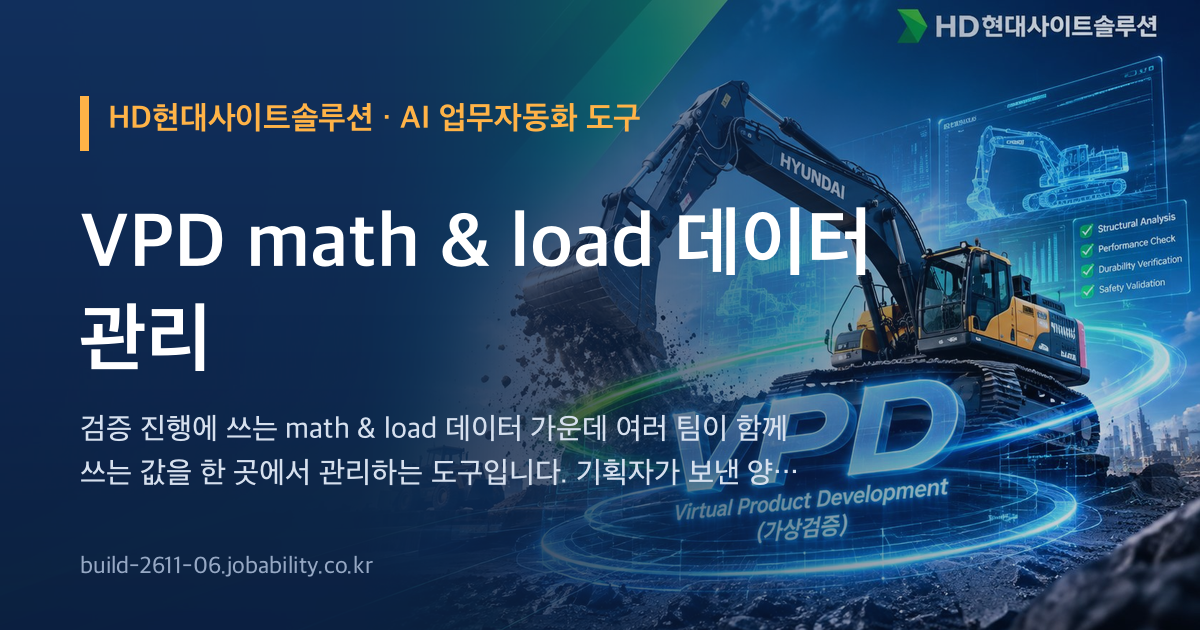
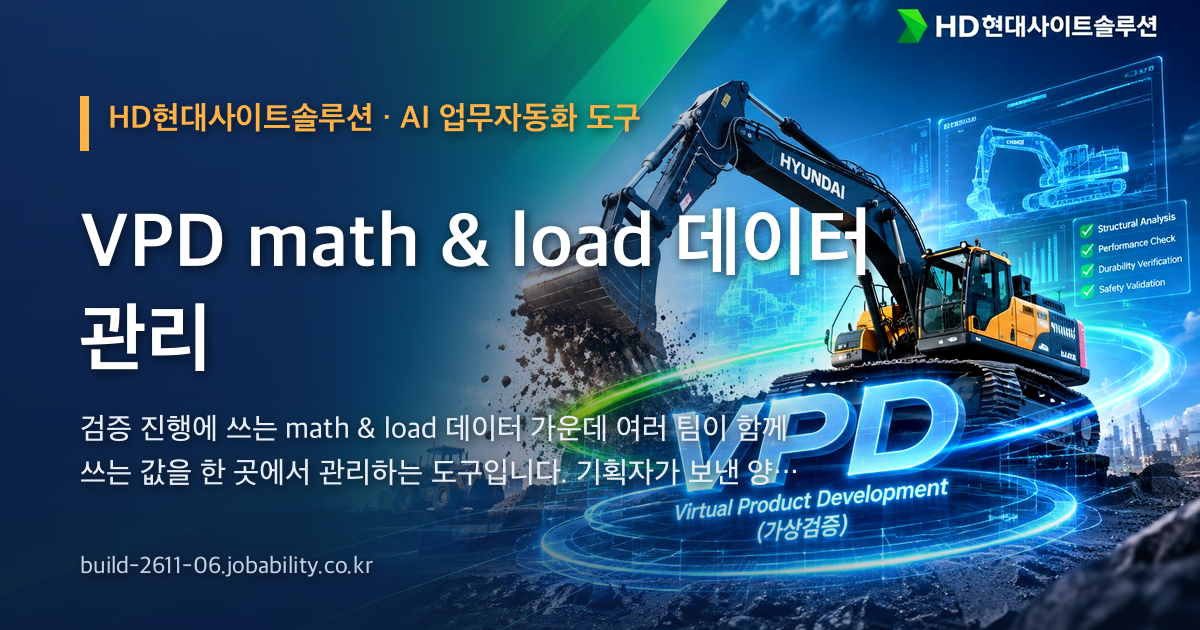
공유 그림 다시(사진 또렷하게) · 판 2026-11-13.12

diff --git a/index.html b/index.html
@@ -12,8 +12,8 @@
 <meta property="og:title" content="HD현대사이트솔루션 · VPD math &amp; load 데이터 관리">
 <meta property="og:description" content="검증 진행에 쓰는 math &amp; load 데이터 가운데 여러 팀이 함께 쓰는 값을 한 곳에서 관리하는 도구입니다. 기획자가 보낸 양식 엑셀을 올리면 기종 프로젝트마다 팀별 입력 항목이 만들어지고, 누가 무엇을 아직 안 넣었는지 보이며, 팀별 입력 파일을 나눠 주고 되돌려 받아 병합합니다.">
 <meta property="og:url" content="https://build-2611-06.jobability.co.kr/">
-<meta property="og:image" content="https://build-2611-06.jobability.co.kr/og-image.png">
-<meta property="og:image:secure_url" content="https://build-2611-06.jobability.co.kr/og-image.png">
+<meta property="og:image" content="https://build-2611-06.jobability.co.kr/og-image.png?v=2">
+<meta property="og:image:secure_url" content="https://build-2611-06.jobability.co.kr/og-image.png?v=2">
 <meta property="og:image:type" content="image/png">
 <meta property="og:image:width" content="1200">
 <meta property="og:image:height" content="630">
@@ -22,7 +22,7 @@
 <meta name="twitter:card" content="summary_large_image">
 <meta name="twitter:title" content="HD현대사이트솔루션 · VPD math &amp; load 데이터 관리">
 <meta name="twitter:description" content="검증 진행에 쓰는 math &amp; load 데이터 가운데 여러 팀이 함께 쓰는 값을 한 곳에서 관리하는 도구입니다. 기획자가 보낸 양식 엑셀을 올리면 기종 프로젝트마다 팀별 입력 항목이 만들어지고, 누가 무엇을 아직 안 넣었는지 보이며, 팀별 입력 파일을 나눠 주고 되돌려 받아 병합합니다.">
-<meta name="twitter:image" content="https://build-2611-06.jobability.co.kr/og-image.png">
+<meta name="twitter:image" content="https://build-2611-06.jobability.co.kr/og-image.png?v=2">
 <!-- /seo-kit -->
 <meta name="description" content="검증 진행에 쓰는 math &amp; load 데이터 가운데 여러 팀이 함께 쓰는 값을 한 곳에서 관리하는 도구입니다. 기획자가 보낸 양식 엑셀을 올리면 기종 프로젝트마다 팀별 입력 항목이 만들어지고, 누가 무엇을 아직 안 넣었는지 보이며, 팀별 입력 파일을 나눠 주고 되돌려 받아 병합합니다. 자동 계산 칸은 양식의 수식을 그대로 따릅니다. v1.0 의 검증항목">
 <link rel="icon" href="favicon.svg" type="image/svg+xml">
@@ -30,9 +30,9 @@
 <link rel="stylesheet" href="css/app.css">
 <!-- auth-kit: 로그인 전에는 도구 화면을 감춘다(js/auth.js 가 판정 뒤 푼다) -->
 <script>document.documentElement.classList.add('auth-lock')</script>
-<link rel="stylesheet" href="css/auth.css?v=2026-11-13.11">
-<link rel="stylesheet" href="css/board.css?v=2026-11-13.11">
-<link rel="stylesheet" href="css/kit-build.css?v=2026-11-13.11">
+<link rel="stylesheet" href="css/auth.css?v=2026-11-13.12">
+<link rel="stylesheet" href="css/board.css?v=2026-11-13.12">
+<link rel="stylesheet" href="css/kit-build.css?v=2026-11-13.12">
 <!-- /auth-kit -->
 </head>
 <body>
@@ -160,11 +160,11 @@
 <script src="js/vpdm.js"></script>
 <script src="js/app2.js"></script>
 <!-- auth-kit: 로그인 · 사용 신청 · 승인 · 게시판(키트 정본 data10-00/kit/auth, 적용 build-2611-00/tools/kit) -->
-<script src="vendor/supabase.js?v=2026-11-13.11"></script>
-<script src="js/auth-config.js?v=2026-11-13.11"></script>
-<script src="js/kit-build.js?v=2026-11-13.11"></script>
-<script src="js/board.js?v=2026-11-13.11"></script>
-<script src="js/auth.js?v=2026-11-13.11"></script>
+<script src="vendor/supabase.js?v=2026-11-13.12"></script>
+<script src="js/auth-config.js?v=2026-11-13.12"></script>
+<script src="js/kit-build.js?v=2026-11-13.12"></script>
+<script src="js/board.js?v=2026-11-13.12"></script>
+<script src="js/auth.js?v=2026-11-13.12"></script>
 <!-- /auth-kit -->
 </body>
 </html>

diff --git a/progress.html b/progress.html
@@ -12,8 +12,8 @@
 <meta property="og:title" content="VPD 운영 업무 보조 — 가상검증 진행 현황 · 요청 메일 초안">
 <meta property="og:description" content="가상검증 항목 관리 엑셀을 올리면 기종·담당자별 지연·임박·완료·미착수를 판정하고, EIM 회의 요약과 담당자별 요청 메일 초안을 만들어 줍니다. 파일은 브라우저 안에서만 처리합니다.">
 <meta property="og:url" content="https://build-2611-06.jobability.co.kr/progress.html">
-<meta property="og:image" content="https://build-2611-06.jobability.co.kr/og-image.png">
-<meta property="og:image:secure_url" content="https://build-2611-06.jobability.co.kr/og-image.png">
+<meta property="og:image" content="https://build-2611-06.jobability.co.kr/og-image.png?v=2">
+<meta property="og:image:secure_url" content="https://build-2611-06.jobability.co.kr/og-image.png?v=2">
 <meta property="og:image:type" content="image/png">
 <meta property="og:image:width" content="1200">
 <meta property="og:image:height" content="630">
@@ -22,7 +22,7 @@
 <meta name="twitter:card" content="summary_large_image">
 <meta name="twitter:title" content="VPD 운영 업무 보조 — 가상검증 진행 현황 · 요청 메일 초안">
 <meta name="twitter:description" content="가상검증 항목 관리 엑셀을 올리면 기종·담당자별 지연·임박·완료·미착수를 판정하고, EIM 회의 요약과 담당자별 요청 메일 초안을 만들어 줍니다. 파일은 브라우저 안에서만 처리합니다.">
-<meta name="twitter:image" content="https://build-2611-06.jobability.co.kr/og-image.png">
+<meta name="twitter:image" content="https://build-2611-06.jobability.co.kr/og-image.png?v=2">
 <!-- /seo-kit -->
 <meta name="description" content="가상검증 항목 관리 엑셀을 올리면 기종·담당자별 지연·임박·완료·미착수를 판정하고, EIM 회의 요약과 담당자별 요청 메일 초안을 만들어 줍니다. 파일은 브라우저 안에서만 처리합니다.">
 <link rel="icon" href="favicon.svg" type="image/svg+xml">
@@ -30,9 +30,9 @@
 <link rel="stylesheet" href="css/app.css">
 <!-- auth-kit: 로그인 전에는 도구 화면을 감춘다(js/auth.js 가 판정 뒤 푼다) -->
 <script>document.documentElement.classList.add('auth-lock')</script>
-<link rel="stylesheet" href="css/auth.css?v=2026-11-13.11">
-<link rel="stylesheet" href="css/board.css?v=2026-11-13.11">
-<link rel="stylesheet" href="css/kit-build.css?v=2026-11-13.11">
+<link rel="stylesheet" href="css/auth.css?v=2026-11-13.12">
+<link rel="stylesheet" href="css/board.css?v=2026-11-13.12">
+<link rel="stylesheet" href="css/kit-build.css?v=2026-11-13.12">
 <!-- /auth-kit -->
 </head>
 <body>
@@ -170,11 +170,11 @@
 <script src="js/vpd.js"></script>
 <script src="js/app.js"></script>
 <!-- auth-kit: 로그인 · 사용 신청 · 승인 · 게시판(키트 정본 data10-00/kit/auth, 적용 build-2611-00/tools/kit) -->
-<script src="vendor/supabase.js?v=2026-11-13.11"></script>
-<script src="js/auth-config.js?v=2026-11-13.11"></script>
-<script src="js/kit-build.js?v=2026-11-13.11"></script>
-<script src="js/board.js?v=2026-11-13.11"></script>
-<script src="js/auth.js?v=2026-11-13.11"></script>
+<script src="vendor/supabase.js?v=2026-11-13.12"></script>
+<script src="js/auth-config.js?v=2026-11-13.12"></script>
+<script src="js/kit-build.js?v=2026-11-13.12"></script>
+<script src="js/board.js?v=2026-11-13.12"></script>
+<script src="js/auth.js?v=2026-11-13.12"></script>
 <!-- /auth-kit -->
 </body>
 </html>

diff --git a/guide.html b/guide.html
@@ -12,8 +12,8 @@
 <meta property="og:title" content="사용법 — VPD math &amp;amp; load 데이터 관리">
 <meta property="og:description" content="검증 진행에 쓰는 math &amp; load 데이터 가운데 여러 팀이 함께 쓰는 값을 한 곳에서 관리하는 도구입니다. 기획자가 보낸 양식 엑셀을 올리면 기종 프로젝트마다 팀별 입력 항목이 만들어지고, 누가 무엇을 아직 안 넣었는지 보이며, 팀별 입력 파일을 나눠 주고 되돌려 받아 병합합니다.">
 <meta property="og:url" content="https://build-2611-06.jobability.co.kr/guide.html">
-<meta property="og:image" content="https://build-2611-06.jobability.co.kr/og-image.png">
-<meta property="og:image:secure_url" content="https://build-2611-06.jobability.co.kr/og-image.png">
+<meta property="og:image" content="https://build-2611-06.jobability.co.kr/og-image.png?v=2">
+<meta property="og:image:secure_url" content="https://build-2611-06.jobability.co.kr/og-image.png?v=2">
 <meta property="og:image:type" content="image/png">
 <meta property="og:image:width" content="1200">
 <meta property="og:image:height" content="630">
@@ -22,7 +22,7 @@
 <meta name="twitter:card" content="summary_large_image">
 <meta name="twitter:title" content="사용법 — VPD math &amp;amp; load 데이터 관리">
 <meta name="twitter:description" content="검증 진행에 쓰는 math &amp; load 데이터 가운데 여러 팀이 함께 쓰는 값을 한 곳에서 관리하는 도구입니다. 기획자가 보낸 양식 엑셀을 올리면 기종 프로젝트마다 팀별 입력 항목이 만들어지고, 누가 무엇을 아직 안 넣었는지 보이며, 팀별 입력 파일을 나눠 주고 되돌려 받아 병합합니다.">
-<meta name="twitter:image" content="https://build-2611-06.jobability.co.kr/og-image.png">
+<meta name="twitter:image" content="https://build-2611-06.jobability.co.kr/og-image.png?v=2">
 <!-- /seo-kit -->
 <link rel="icon" href="favicon.svg" type="image/svg+xml">
 <link rel="stylesheet" href="css/style.css">

diff --git a/plan.html b/plan.html
@@ -12,8 +12,8 @@
 <meta property="og:title" content="기획서 — VPD math &amp;amp; load 데이터 관리">
 <meta property="og:description" content="검증 진행에 쓰는 math &amp; load 데이터 가운데 여러 팀이 함께 쓰는 값을 한 곳에서 관리하는 도구입니다. 기획자가 보낸 양식 엑셀을 올리면 기종 프로젝트마다 팀별 입력 항목이 만들어지고, 누가 무엇을 아직 안 넣었는지 보이며, 팀별 입력 파일을 나눠 주고 되돌려 받아 병합합니다.">
 <meta property="og:url" content="https://build-2611-06.jobability.co.kr/plan.html">
-<meta property="og:image" content="https://build-2611-06.jobability.co.kr/og-image.png">
-<meta property="og:image:secure_url" content="https://build-2611-06.jobability.co.kr/og-image.png">
+<meta property="og:image" content="https://build-2611-06.jobability.co.kr/og-image.png?v=2">
+<meta property="og:image:secure_url" content="https://build-2611-06.jobability.co.kr/og-image.png?v=2">
 <meta property="og:image:type" content="image/png">
 <meta property="og:image:width" content="1200">
 <meta property="og:image:height" content="630">
@@ -22,7 +22,7 @@
 <meta name="twitter:card" content="summary_large_image">
 <meta name="twitter:title" content="기획서 — VPD math &amp;amp; load 데이터 관리">
 <meta name="twitter:description" content="검증 진행에 쓰는 math &amp; load 데이터 가운데 여러 팀이 함께 쓰는 값을 한 곳에서 관리하는 도구입니다. 기획자가 보낸 양식 엑셀을 올리면 기종 프로젝트마다 팀별 입력 항목이 만들어지고, 누가 무엇을 아직 안 넣었는지 보이며, 팀별 입력 파일을 나눠 주고 되돌려 받아 병합합니다.">
-<meta name="twitter:image" content="https://build-2611-06.jobability.co.kr/og-image.png">
+<meta name="twitter:image" content="https://build-2611-06.jobability.co.kr/og-image.png?v=2">
 <!-- /seo-kit -->
 <link rel="icon" href="favicon.svg" type="image/svg+xml">
 <link rel="stylesheet" href="css/style.css">

diff --git a/report.html b/report.html
@@ -12,8 +12,8 @@
 <meta property="og:title" content="평가보고서 — VPD math &amp;amp; load 데이터 관리">
 <meta property="og:description" content="VPD math &amp;amp; load 데이터 관리 점검 · 평가보고서(2026-11-13) — 사이트 점검, 기능과 시험, 인계 준비, 판 이력, 한계.">
 <meta property="og:url" content="https://build-2611-06.jobability.co.kr/report.html">
-<meta property="og:image" content="https://build-2611-06.jobability.co.kr/og-image.png">
-<meta property="og:image:secure_url" content="https://build-2611-06.jobability.co.kr/og-image.png">
+<meta property="og:image" content="https://build-2611-06.jobability.co.kr/og-image.png?v=2">
+<meta property="og:image:secure_url" content="https://build-2611-06.jobability.co.kr/og-image.png?v=2">
 <meta property="og:image:type" content="image/png">
 <meta property="og:image:width" content="1200">
 <meta property="og:image:height" content="630">
@@ -22,7 +22,7 @@
 <meta name="twitter:card" content="summary_large_image">
 <meta name="twitter:title" content="평가보고서 — VPD math &amp;amp; load 데이터 관리">
 <meta name="twitter:description" content="VPD math &amp;amp; load 데이터 관리 점검 · 평가보고서(2026-11-13) — 사이트 점검, 기능과 시험, 인계 준비, 판 이력, 한계.">
-<meta name="twitter:image" content="https://build-2611-06.jobability.co.kr/og-image.png">
+<meta name="twitter:image" content="https://build-2611-06.jobability.co.kr/og-image.png?v=2">
 <!-- /seo-kit -->
 <meta name="description" content="VPD math &amp; load 데이터 관리 점검 · 평가보고서(2026-11-13) — 사이트 점검, 기능과 시험, 인계 준비, 판 이력, 한계.">
 <link rel="icon" href="favicon.svg" type="image/svg+xml">
